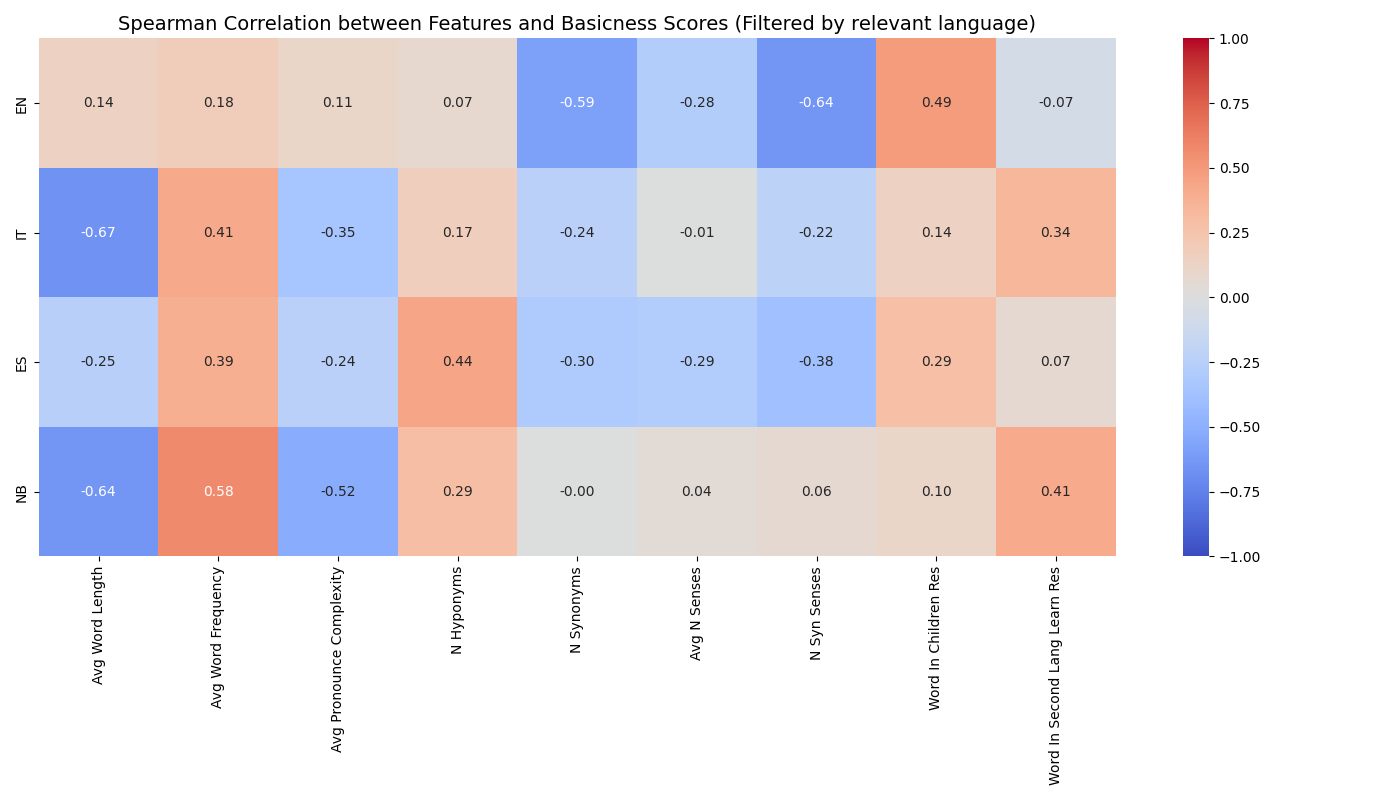
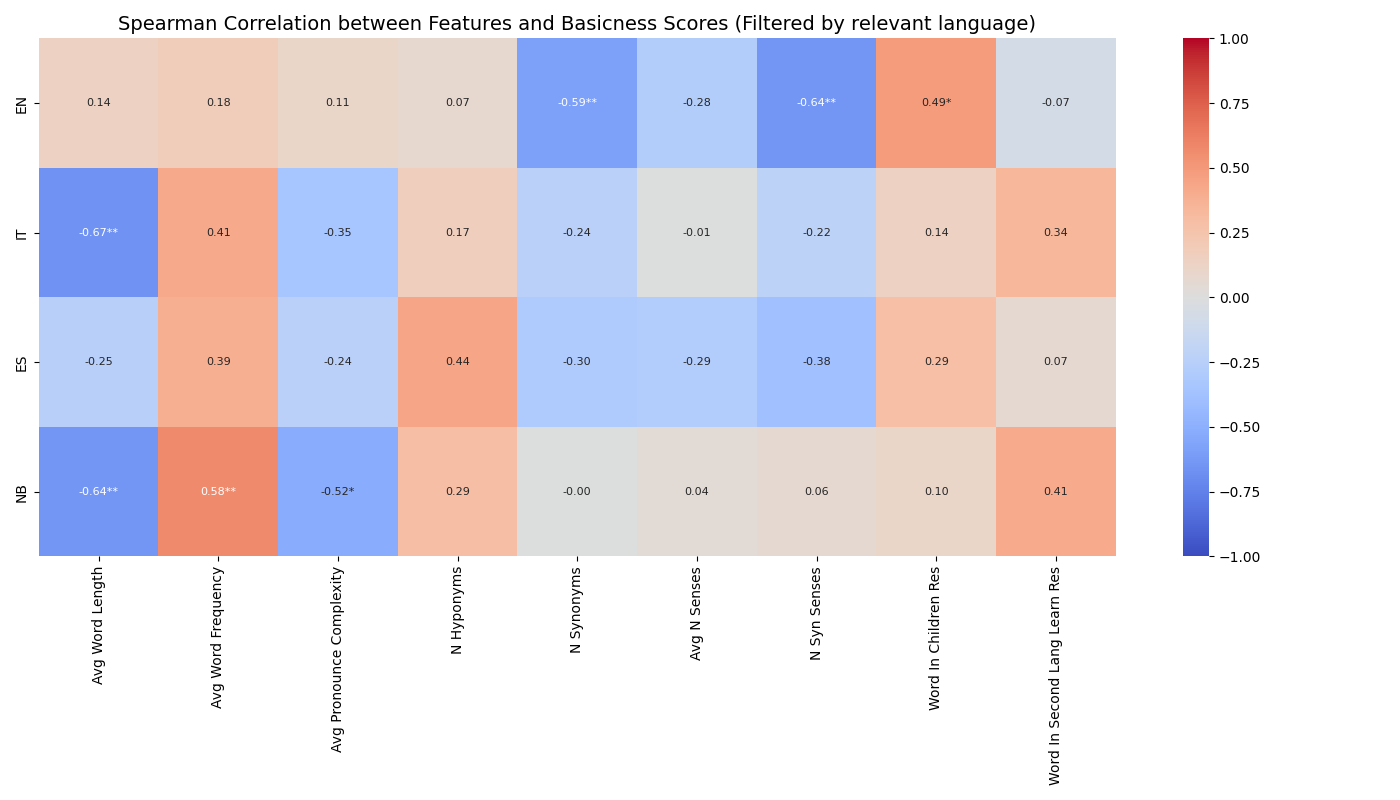
Added p-value loading and significance annotations to correlation heatmap visualization. Updated correlation calculation logic to handle missing data and ensure consistent language casing. Updated output images for filtered and unfiltered basicness correlations.

diff --git a/src/analysis/correlation.py b/src/analysis/correlation.py
@@ -183,28 +183,75 @@ def calculate_correlations(filter_by_relevant_lang=True):
 
     # Create visualization of the correlations
     if all_results:
+        # --- Load p-values ---
+        p_value_file = os.path.join(output_dir, "spearman_p_values.csv")
+        try:
+            p_values_df = pd.read_csv(p_value_file, index_col=0)
+            # Ensure columns match languages (case might differ if manually edited)
+            p_values_df.columns = p_values_df.columns.str.lower()
+        except FileNotFoundError:
+            print(
+                f"Warning: P-value file not found at {p_value_file}. Cannot add significance stars."
+            )
+            p_values_df = None
+        except Exception as e:
+            print(
+                f"Warning: Error reading p-value file {p_value_file}: {e}. Cannot add significance stars."
+            )
+            p_values_df = None
+
         # Create heatmap of Spearman correlations
         plt.figure(figsize=(14, 8))
 
-        # Prepare data for heatmap
+        # Prepare data for heatmap and annotations
         heatmap_data = []
+        annot_labels = []  # For custom annotations (corr + p-value stars)
         langs_with_data = []
 
-        for lang in languages:
-            if lang not in all_results or "spearman" not in all_results[lang]:
+        for lang_lower in languages:  # Use lowercase for internal consistency
+            lang_upper = lang_lower.upper()
+            if (
+                lang_lower not in all_results
+                or "spearman" not in all_results[lang_lower]
+            ):
                 continue
 
-            row = []
+            corr_row = []
+            label_row = []
+            valid_lang_data = False
             for feature in feature_cols:
-                if feature in all_results[lang]["spearman"]:
-                    corr, _ = all_results[lang]["spearman"][feature]
-                    row.append(corr)
-                else:
-                    row.append(np.nan)
+                if feature in all_results[lang_lower]["spearman"]:
+                    corr, p_val = all_results[lang_lower]["spearman"][feature]
+                    corr_row.append(corr)
 
-            if row:  # Only add row if it contains data
-                heatmap_data.append(row)
-                langs_with_data.append(lang.upper())
+                    # Determine significance stars
+                    stars = ""
+                    # Check if p_values_df was loaded successfully and contains the necessary data
+                    if (
+                        p_values_df is not None
+                        and lang_lower in p_values_df.columns
+                        and feature in p_values_df.index
+                    ):
+                        p_val_from_file = p_values_df.loc[feature, lang_lower]
+                        # Add a check for NaN p-values read from the file
+                        if pd.notna(p_val_from_file):
+                            if p_val_from_file < 0.001:
+                                stars = "***"
+                            elif p_val_from_file < 0.01:
+                                stars = "**"
+                            elif p_val_from_file < 0.05:
+                                stars = "*"
+
+                    label_row.append(f"{corr:.2f}{stars}")
+                    valid_lang_data = True
+                else:
+                    corr_row.append(np.nan)
+                    label_row.append("")  # Empty label for missing data
+
+            if valid_lang_data:  # Only add row if it contains data
+                heatmap_data.append(corr_row)
+                annot_labels.append(label_row)
+                langs_with_data.append(lang_upper)  # Keep original case for labels
 
         if not heatmap_data:
             print("No correlation data to visualize")
@@ -212,15 +259,16 @@ def calculate_correlations(filter_by_relevant_lang=True):
 
         # Convert to numpy array
         heatmap_array = np.array(heatmap_data)
+        annot_array = np.array(annot_labels)
 
-        # Create mask for NaN values
+        # Create mask for NaN values in correlation data
         mask = np.isnan(heatmap_array)
 
         # Plot heatmap
         ax = sns.heatmap(
             heatmap_array,
-            annot=True,
-            fmt=".2f",
+            annot=annot_array,  # Use custom annotations
+            fmt="",  # Use pre-formatted strings in annot_array
             cmap="coolwarm",
             vmin=-1,
             vmax=1,
@@ -228,6 +276,7 @@ def calculate_correlations(filter_by_relevant_lang=True):
             xticklabels=[f.replace("_", " ").title() for f in feature_cols],
             yticklabels=langs_with_data,
             mask=mask,
+            annot_kws={"size": 8},  # Adjust font size if needed
         )
 
         filter_text = (
